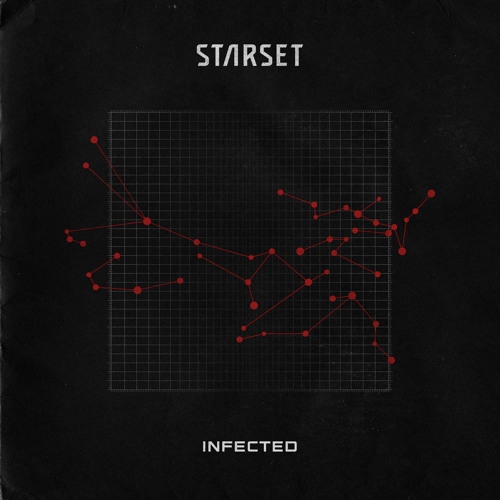
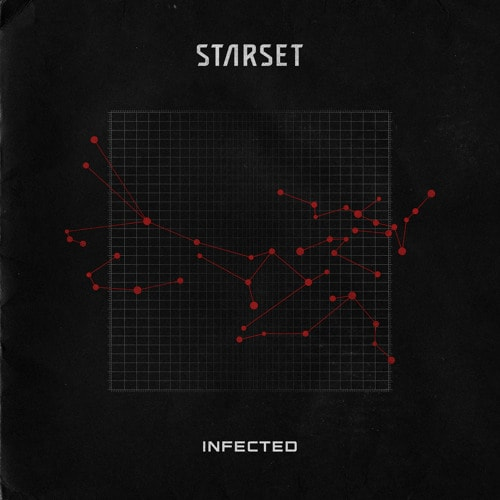
wip horizons post

diff --git a/content/posts/horizons/index.scss b/content/posts/horizons/index.scss
@@ -49,3 +49,14 @@ h3 {
 .font-axion-rnd {
   font-family: 'Axion RND', Inter, Roboto, ui-sans-serif, sans-serif;
 }
+
+.markdown .symbols {
+  display: grid;
+  grid-template-columns: repeat(4, minmax(0, 1fr));
+  gap: spacing(2);
+
+  figcaption {
+    overflow: hidden;
+    text-overflow: ellipsis;
+  }
+}

diff --git a/content/posts/horizons/index.md b/content/posts/horizons/index.md
@@ -15,20 +15,18 @@ draft: true
 
 Around eleven years ago, I watched a [gaming montage](https://www.youtube.com/watch?v=fli0N0RVmXw) featuring the song [My Demons](https://www.youtube.com/watch?v=nkll0StZJLA) by a newly formed band called Starset. I didn't know it back then, but they would one day become my favorite. Its frontman, Dustin Bates, a PhD in electrical engineering and former U.S. Air Force researcher, created the band to combine his interests in [science and music](https://x.com/starsetonline/status/346082788879003648).
 
-Bates self-describes their music as cinematic rock, [blending symphonics with electronics with guitar hard rock](https://eu.goerie.com/story/entertainment/local/2015/09/10/cinematic-band-starset-opens-for/24940226007/). The symphonics appear in form of through-composed outros with [adventurous and space-travel-like melodies](https://youtu.be/W7qIlpV-uwo?t=229). Unfortunately, they have become less frequent in newer releases. The lyrics cover everything from love and space to the dystopian use of technology in authoritarian civilizations. Their latest album, Horizons, was released on October 22, 2021 and is the thing I want to dissect in this post.
+Bates self-describes their music as cinematic rock, [blending symphonics with electronics with guitar hard rock](https://eu.goerie.com/story/entertainment/local/2015/09/10/cinematic-band-starset-opens-for/24940226007/). The symphonics appear in form of through-composed outros with [adventurous and space-travel-like melodies](https://youtu.be/W7qIlpV-uwo?t=229). Unfortunately, they have become less frequent in newer releases. The lyrics cover everything from love and space to the dystopian use of technology. Their latest album, Horizons, was released on October 22, 2021 and is the thing I want to dissect in this post.
 
 ## Creative Direction
-Something Starset has nailed since its inception is the creative direction. They publish supplemental material and Bates even authored two novels, [The PROX Transmissions](https://merch.starsetonline.com/products/the-prox-transmissions-novel) and [A Brief History of the Future](https://merch.starsetonline.com/products/a-brief-history-of-the-future-novel), fleshing out the Starset universe.  Music videos take place inside of it and fans often comment about wanting an entire movie. There exists a [Google Doc](https://docs.google.com/document/d/e/2PACX-1vQAtvJU4ghdGGvpDfss4ZTCz5_Ns3jaAyz9r-2eR_heL96kWWZ2i9mOrEqv6SWMyXEI9OC8bGeO12Fn/pub) summarizing all the lore, but to be honest: I don't really care about that kind of stuff. I'm here for the music.
+Something Starset has nailed since its inception is the creative direction. They publish lots of supplemental material and Bates even authored two novels, [The PROX Transmissions](https://merch.starsetonline.com/products/the-prox-transmissions-novel) and [A Brief History of the Future](https://merch.starsetonline.com/products/a-brief-history-of-the-future-novel), fleshing out the Starset universe.  Music videos take place inside of it and fans often comment about wanting an entire movie. There exists a [Google Doc](https://docs.google.com/document/d/e/2PACX-1vQAtvJU4ghdGGvpDfss4ZTCz5_Ns3jaAyz9r-2eR_heL96kWWZ2i9mOrEqv6SWMyXEI9OC8bGeO12Fn/pub) summarizing all the lore, but to be honest: I don't really care about that kind of stuff. I'm here for the music.
 
-<!-- At that point nobody knew that there was an album in the works. It became more apparent with the following singles. For them and the whole album, Starset teamed up with...
-Funny title for a song released during COVID
--->
-
-Speaking of which: the first single to be released was Infected. At that point, the album hasn't been announced yet, which explains the different cover style. For the remaining singles and album, Starset teamed up with [Brandon Rike](https://brandonrike.com/) of [Tension Division](https://tensiondivision.com/project/starsethorizons).
+Speaking of which, the first single of Horizons to be released was Infected. At that point, nobody knew there was an album in the works, which explains the difference in artwork style. It became more coherent with the following singles. For them and the whole album, Starset teamed up with [Brandon Rike](https://brandonrike.com/) of [Tension Division](https://tensiondivision.com/project/starsethorizons), who served as creative director and lead designer for popular bands like Twenty One Pilots, Korn and Weezer.
 
 - ![](img/cover-infected.jpg "Infected cover")
 - ![](img/cover-leaving-this-world-behind.jpg "Leaving This World Behind cover")
 {.fluent}
+
+At least that's what I think. The covers of the singles following Infected have a very recognizable style.
 
 The change in style is immediately apparent and very recognizable. Dark starry backgrounds with beams of energy shooting through it.
 
@@ -36,8 +34,11 @@ The change in style is immediately apparent and very recognizable. Dark starry b
 - ![](img/cover-earthrise.jpg "Earthrise cover")
 {.fluent}
 
-The font used on covers, LPs and other media is called Axion RND. It has very distinct, round and futuristic looking characters. The height difference between lower- and uppercase ones is small, which probably influenced the decision to capitalize all text.
+## Font
+The font used on covers, LPs and other media is called Axion RND. It has very distinct, round and futuristic looking characters. The height difference between lower- and uppercase ones is small, which probably influenced the decision to capitalize all text. That's something I'm usually opposed to, but they made it work.
 {.font-axion-rnd}
+
+![](img/band.jpg)
 
 ## Artwork
 While artwork and creative direction might appear supplemental to the musical experience, they are of great importance to me. Good covers stand out and draw you in. If you find one that resonates with you, it is almost impossible to not listen to the album. That's the feeling I had, and still have, with the cover of Horizons. The LP sits proudly between my speakers as a decorative piece and catches the eye every so often.
@@ -68,7 +69,27 @@ It features the side profile of a female head. The back fades into the nothingne
 
 The colors perfectly capture space for me. The black and dark blue represent the nothingness, while the electric blue and pink and calming orange and red represent the immense forces acting throughout the universe. Similar colors are used in the singles preceding the album.
 
+![](img/cd.jpg)
+
 ## Symbolism
+
+- ![](img/symbol-unveiling-the-architecture.png "Unveiling the Architecture")
+- ![](img/symbol-the-breach.png "The Breach")
+- ![](img/symbol-otherworldly.png "Otherworldly")
+- ![](img/symbol-icarus.png "Icarus")
+- ![](img/symbol-earthrise.png "Earthrise")
+- ![](img/symbol-leaving-this-world-behind.png "Leaving this World Behind")
+- ![](img/symbol-devolution.png "Devolution")
+- ![](img/symbol-annihilated-love.png "Annihilated Love")
+- ![](img/symbol-alchemy.png "Alchemy")
+- ![](img/symbol-disappear.png "Disappear")
+- ![](img/symbol-this-endless-endeavor.png "This Endless Endeavor")
+- ![](img/symbol-symbiotic.png "Symbiotic")
+- ![](img/symbol-dreamcatcher.png "Dreamcatcher")
+- ![](img/symbol-tunnelvision.png "Tunnelvision")
+- ![](img/symbol-infected.png "Infected")
+- ![](img/symbol-something-wicked.png "Something Wicked")
+{.symbols}
 
 ## Songs
 
@@ -79,7 +100,8 @@ I wrote this post primarily to talk about how the design and creative direction 
 1. **Unveiling the Architecture**: Instrumental introduction to the album. Same as in all their previous albums.
 2. **The Breach**:
 3. **Otherworldly**:
-4. **Icarus**: This song begins with the outro of Otherworldly
+4. **Icarus**:
+    This song begins with the outro of Otherworldly
     > And he told him<br>
     > "Beware, do not fly too close to the sun<br>
     > The blaze will surely melt those wings."<br>
